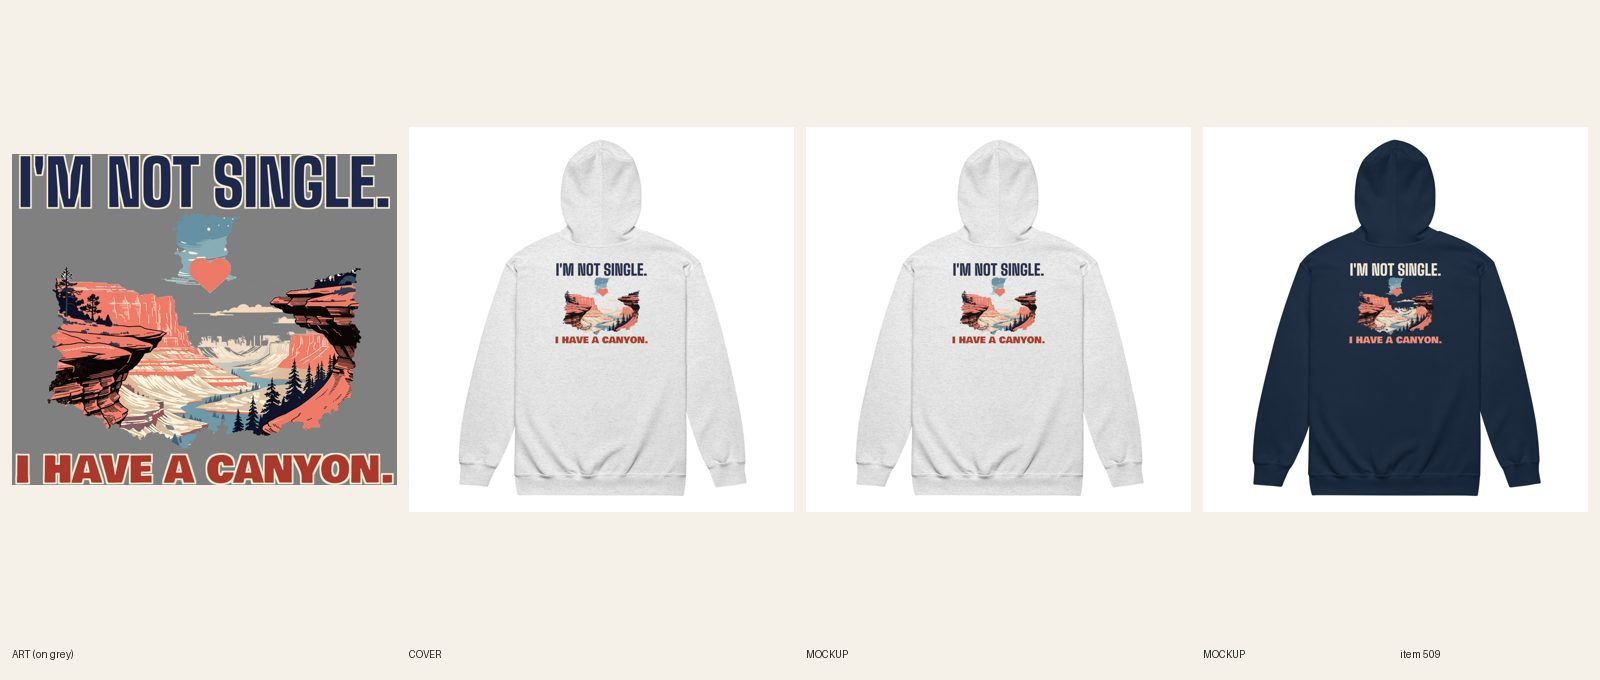
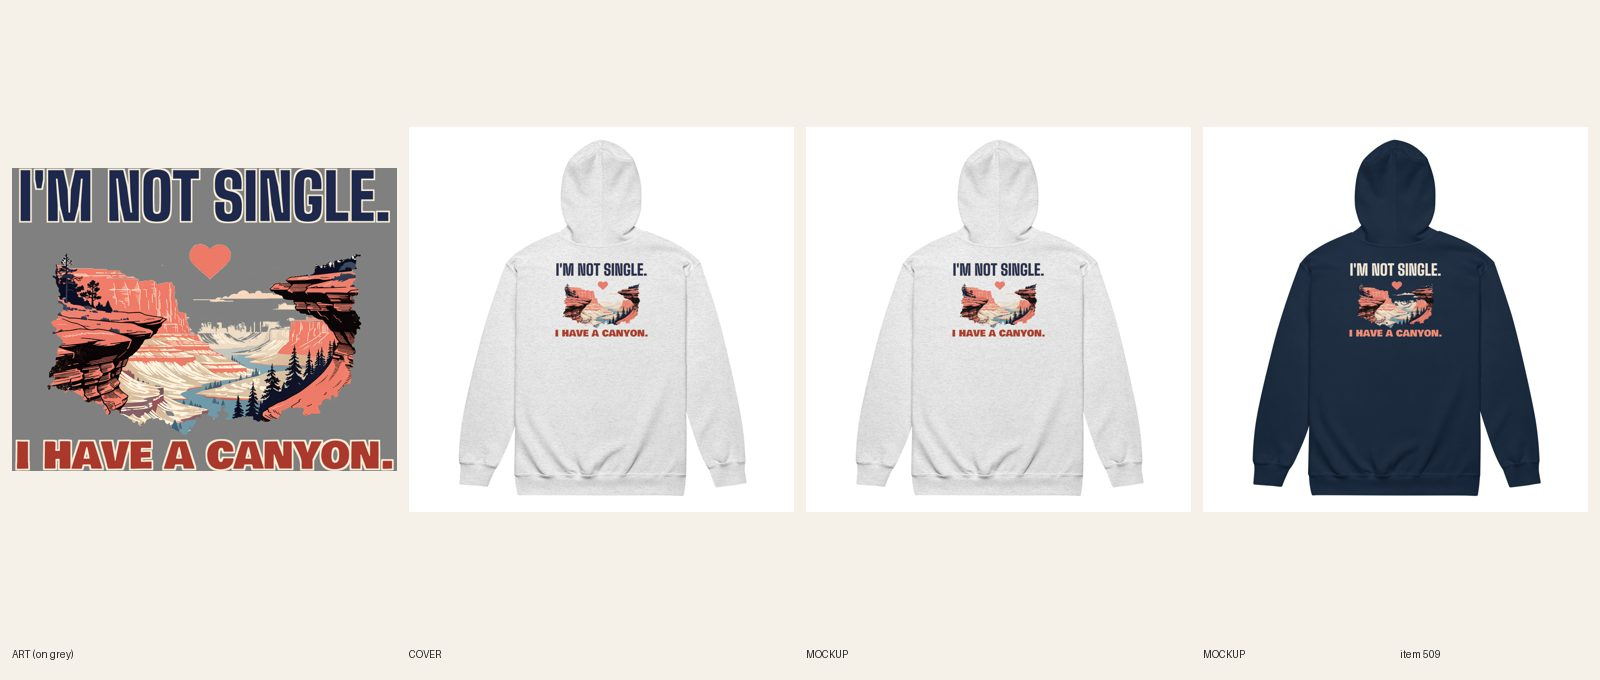
[C] review 509 national park zip hoodie (round 4)

diff --git a/designs/c509/make5.py b/designs/c509/make5.py
@@ -1,0 +1,18 @@
+"""#509 round 4: delete the leftover blue sky scrap, keep the coral heart alone (floats free above the canyon)."""
+import numpy as np
+from PIL import Image, ImageFilter
+a = Image.open('designs/c509/art_rag4.png').convert('RGBA'); A = np.array(a)
+x0, x1, y0, y1 = 1050, 1700, 250, 930
+reg = A[y0:y1, x0:x1].astype(int)
+R, G, B, AL = reg[..., 0], reg[..., 1], reg[..., 2], reg[..., 3]
+coral = (AL > 0) & (R > 200) & (R - B > 70) & (G < 190)
+from scipy import ndimage as ndi
+lab, n = ndi.label(coral); sizes = ndi.sum(coral, lab, range(1, n + 1)); k = 1 + int(np.argmax(sizes))
+heart = ndi.binary_fill_holes(lab == k)
+heart = ndi.binary_dilation(heart, iterations=3)
+print('components', n, 'heart px', int(heart.sum()), 'bbox', np.argwhere(heart).min(0), np.argwhere(heart).max(0))
+keep = np.zeros(A.shape[:2], bool); keep[y0:y1, x0:x1] = heart
+mask = np.zeros(A.shape[:2], bool); mask[y0:y1, x0:x1] = True
+out = A.copy(); out[mask & ~keep, 3] = 0
+Image.fromarray(out.astype('uint8'), 'RGBA').save('designs/c509/art_rag5.png')
+bg = Image.new('RGBA', a.size, (150, 150, 150, 255)); bg.alpha_composite(Image.open('designs/c509/art_rag5.png')); bg.convert('RGB').resize((a.width // 4, a.height // 4)).save('/tmp/claude-0/s/rag5.png')

diff --git a/designs/c509/make5b.py b/designs/c509/make5b.py
@@ -1,0 +1,9 @@
+import sys; sys.path.insert(0,'.')
+from designs.lib import *
+im=Image.open('docs/print-files/509-swipe-right-public-land.png').convert('RGBA'); W=im.width
+art=Image.open('designs/c509/art_rag5.png').convert('RGBA'); art=art.crop(art.getbbox()); art=art.resize((int(art.width*1.05),int(art.height*1.05)),Image.LANCZOS)
+DK=(30,40,76,255); CORAL=(248,140,112,255); DCOR=(170,56,44,255)
+for tag,c1,k1,c2,k2,bg in (('ash',DK,CREAM,DCOR,CREAM,(200,200,200,255)),('navy',CREAM,DK,CORAL,DK,(38,50,88,255))):
+    h1=line("I'M NOT SINGLE.",'big',0.97,W,c1,k1,kw=27); h2=line("I HAVE A CANYON.",'bowlby',0.985,W,c2,k2,kw=29)
+    print(tag,'headline px',h1.width,'punch px',h2.width,'heights',h1.height,h2.height,'art',art.size)
+    out=lockup(art,W,[h1],[h2],f'509-v5-canyon-{tag}',{tag:bg}); print(out.size)

diff --git a/docs/pipeline/509-national-park-zip-hoodie-swipe-right-on-public-land.md b/docs/pipeline/509-national-park-zip-hoodie-swipe-right-on-public-land.md
@@ -1,4 +1,4 @@
-status: BUILDING [C] 2026-10-20T12:42Z
+status: REVIEW
 lane: C
 type: new
 id: 509
@@ -40,3 +40,4 @@ kd: 32
 - 2026-10-20 09:20 UTC director: REDO from docs/review/509.jpg. 1) R4.1 (round 3): the canyon is no longer a shield but is now a squared block (straight left and right cliff edges, flat bottom); on the Ash back print it reads as a postcard. Break the sides: let the sky swirl and the heart float free above with no edge, end the canyon walls on uneven rock and pine shapes, ragged bottom. No new fal needed. 2) Line I'M NOT SINGLE. / I HAVE A CANYON. passes; keep it.
 - 2026-10-20 12:20 UTC builder [C]: REDO round 3 per the director's 09:20 note (R4.1: canyon read as a squared block). Line and type kept (I'M NOT SINGLE. / I HAVE A CANYON.; headline 3034 px / punch 3096 px = 102%). Art: outer edge carved much deeper (rough2 depth 330 on the uncut art, designs/c509/make4.py) so the left and right cliffs, pines and bottom end on uneven rock and tree shapes, no straight side and no flat bottom; the sky swirl is gone except a free-floating patch with the coral heart (heart restored whole, no edge around it). Chest copy rebuilt from the new art (file 1090318272). Back files Ash 1090318314 (navy headline / rust punch) / Navy 1090318380 (cream / coral), BW 1650 BT 225, 12/12 relinked and verified on the API. All four mockups (front and back, both colors) replaced in place. Phone-size read ok. fal $0.
 - 2026-10-20 12:45 UTC director: REDO from docs/review/509.jpg. 1) R5.3.4 / R4.1: the leftover blue sky scrap above the canyon reads as an odd torn shape on Ash and Navy at phone size. Delete it and float the coral heart alone above the canyon (no ground behind it). Everything else approved: canyon edges now ragged, line and type unchanged.
+- 2026-10-20 12:54 UTC builder [C]: REDO round 4 per the director's 12:45 note (R5.3.4 / R4.1: leftover blue sky scrap). Deleted the whole sky scrap; the coral heart now floats alone above the canyon (designs/c509/make5.py keeps only the heart's connected coral shape inside the sky box and clears everything else; make5b.py re-lays the lockup). Canyon edges, line and type unchanged (I'M NOT SINGLE. / I HAVE A CANYON.; headline 3034 px / punch 3096 px = 102%). New chest copy (file 1090360376) from the same art, files Ash back 1090360413, Navy back 1090360461, BW 1650 BT 225, 12/12 relinked and verified on the API. All four mockups replaced in place with the line-named alts (fileUpdate). Phone-size read ok on both. fal $0.

diff --git a/docs/intake-log.md b/docs/intake-log.md
@@ -1,5 +1,5 @@
 2026-10-20 12:49 UTC — [H] Helper run: Telegram inbox empty (getUpdates returned 0 updates; nothing to consume). Audit 610 live products: 0 errors, 37 warnings left alone; committed docs/cohesion-audit.md and .json. Category check: 0 products without a Shopify category. Site check: womens-chihuahua-cold-since-birth-zip-hoodie, mens-pig-wallowing-respectfully-oversized-hoodie, womens-panda-endangered-patience-zip-hoodie and homepage all 200. Stuck-work: nothing BUILDING over 3h (5 items, newest commits 12:07–12:42). Lane A RUNNING line from 02:28 UTC still present (lines 201 and 207) but lane A committed at 12:41, so active; no repeat alert. Daily summary sent to Sam (first run after 12:00 UTC): 610 live, REVIEW 116, READY 50, REDO 17, PARKED 31, BUILDING 5, 12 items waiting on Sam. Note: origin/main was force-updated from 5615ff1 to 5479c90 when I fetched, so the [D] take lock commit was off main; the lock line was re-added below. Lock released.
-RUNNING lane C since 2026-10-20 12:42 UTC
+2026-10-20 12:54 UTC — [C] Builder run: redid #509 national park zip hoodie round 4 (blue sky scrap deleted, coral heart floats alone, 12/12 relinked on files 1090360413/1090360461). REVIEW. fal $0.
 2026-10-20 12:42 UTC — [C] Builder run: built #711 Men's Gym Rack Your Weights. Respectfully. sweatpants (new blank, Printful 412 front left leg, 3 lines turned 90 deg, hoodie art crop at the hip, Carbon Grey + White, $44.99, 12/12 synced on file 1090356235, plain product shots). REVIEW. fal $0. Lock released.
 RUNNING lane E since 2026-10-20 13:15 UTC
 2026-10-20 12:52 UTC — [A] Builder run: built #619 Women's Christmas Santa Gets All the Credit crewneck (twin of live #618: Sand takes the tee print, Navy own cream/pink file, DRAFT 15369722167600, sync 483379509 12/12, mockups + variant images, plain product shot). REVIEW, stays DRAFT. fal $0.
